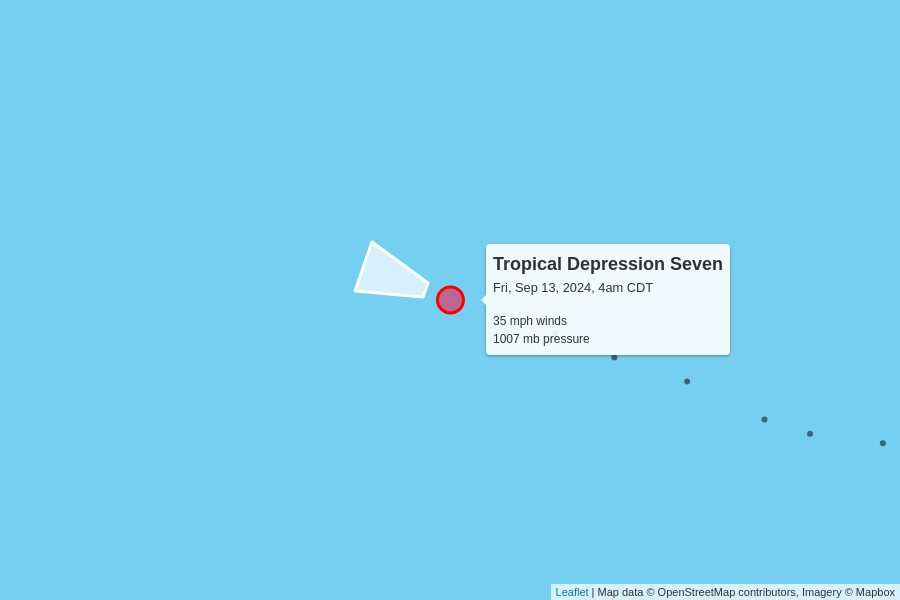
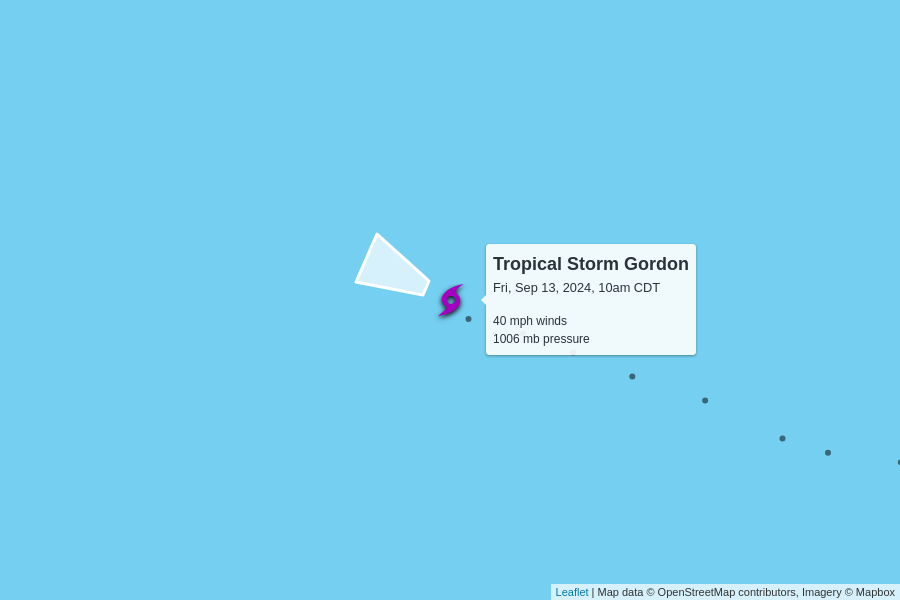
automatic update

diff --git a/docs/index.html b/docs/index.html
@@ -104,7 +104,7 @@
         <td colspan="6" class="storm category-0" >
           <h2>
             Post-tropical Cyclone Francine
-            <p class="updated">last updated <span data-time>2024-09-13T09:00:00.000Z</span></p>
+            <p class="updated">last updated <span data-time>2024-09-13T15:00:00.000Z</span></p>
           </h2>
         </td>
       </tr>
@@ -119,12 +119,12 @@
       </tr>
       <tr>
         <td class="spacer"></td>
-        <td>25 mph<br>-5 mph since last update</td>
-        <td>1003 mb<br>+5 mb since last update</td>
+        <td>15 mph<br>-10 mph since last update</td>
+        <td>1005 mb<br>+2 mb since last update</td>
         <td>
-          3 mph to the west
+          3 mph to the southeast
           <br/>
-          <span style="display: inline-block; font-size: 1.5em; transform: rotate(270deg);">↑</span>
+          <span style="display: inline-block; font-size: 1.5em; transform: rotate(140deg);">↑</span>
         </td>
         <td><a href="https://raw.githubusercontent.com/mgwalker/atlantic-hurricanes/main/data/csv/AL062024.csv">AL062024.csv</a></td>
         <td><a href="https://www.nhc.noaa.gov/archive/2024/FRANCINE.shtml?">NHC advisories</a></td>
@@ -147,8 +147,8 @@
       <tr>
         <td colspan="6" class="storm category-0" >
           <h2>
-            Tropical Depression Seven
-            <p class="updated">last updated <span data-time>2024-09-13T09:00:00.000Z</span></p>
+            Tropical Storm Gordon
+            <p class="updated">last updated <span data-time>2024-09-13T15:00:00.000Z</span></p>
           </h2>
         </td>
       </tr>
@@ -163,15 +163,15 @@
       </tr>
       <tr>
         <td class="spacer"></td>
-        <td>35 mph<br>0 mph since last update</td>
-        <td>1007 mb<br>0 mb since last update</td>
+        <td>40 mph<br>+5 mph since last update</td>
+        <td>1006 mb<br>-1 mb since last update</td>
         <td>
-          14 mph to the west-northwest
+          12 mph to the west-northwest
           <br/>
-          <span style="display: inline-block; font-size: 1.5em; transform: rotate(290deg);">↑</span>
+          <span style="display: inline-block; font-size: 1.5em; transform: rotate(295deg);">↑</span>
         </td>
         <td><a href="https://raw.githubusercontent.com/mgwalker/atlantic-hurricanes/main/data/csv/AL072024.csv">AL072024.csv</a></td>
-        <td><a href="https://www.nhc.noaa.gov/archive/2024/SEVEN.shtml?">NHC advisories</a></td>
+        <td><a href="https://www.nhc.noaa.gov/archive/2024/GORDON.shtml?">NHC advisories</a></td>
       </tr>
       <tr id="storm_AL072024" >
         <td class="spacer">
